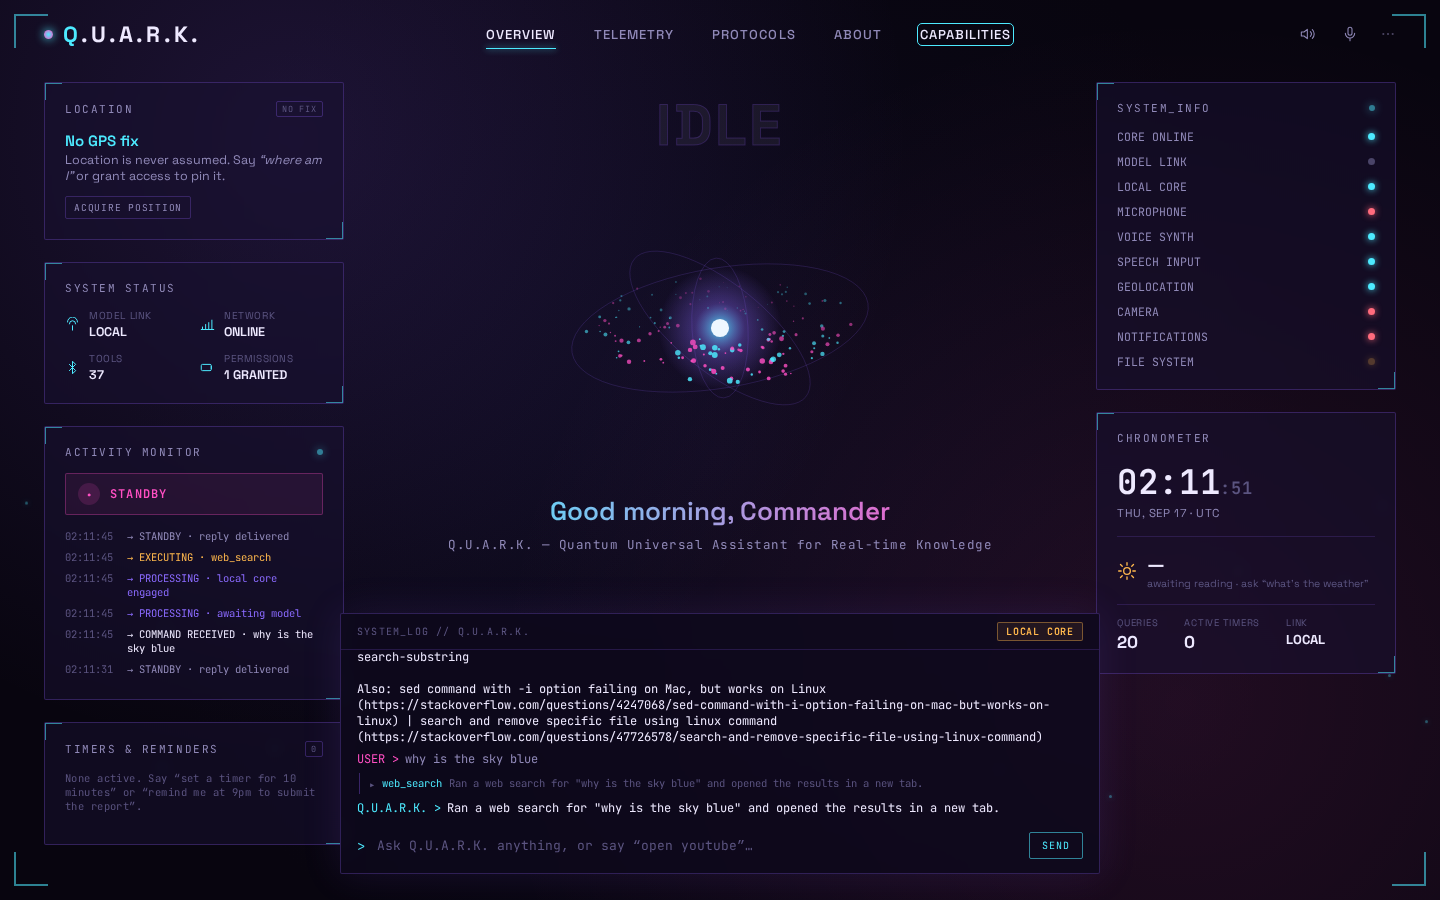
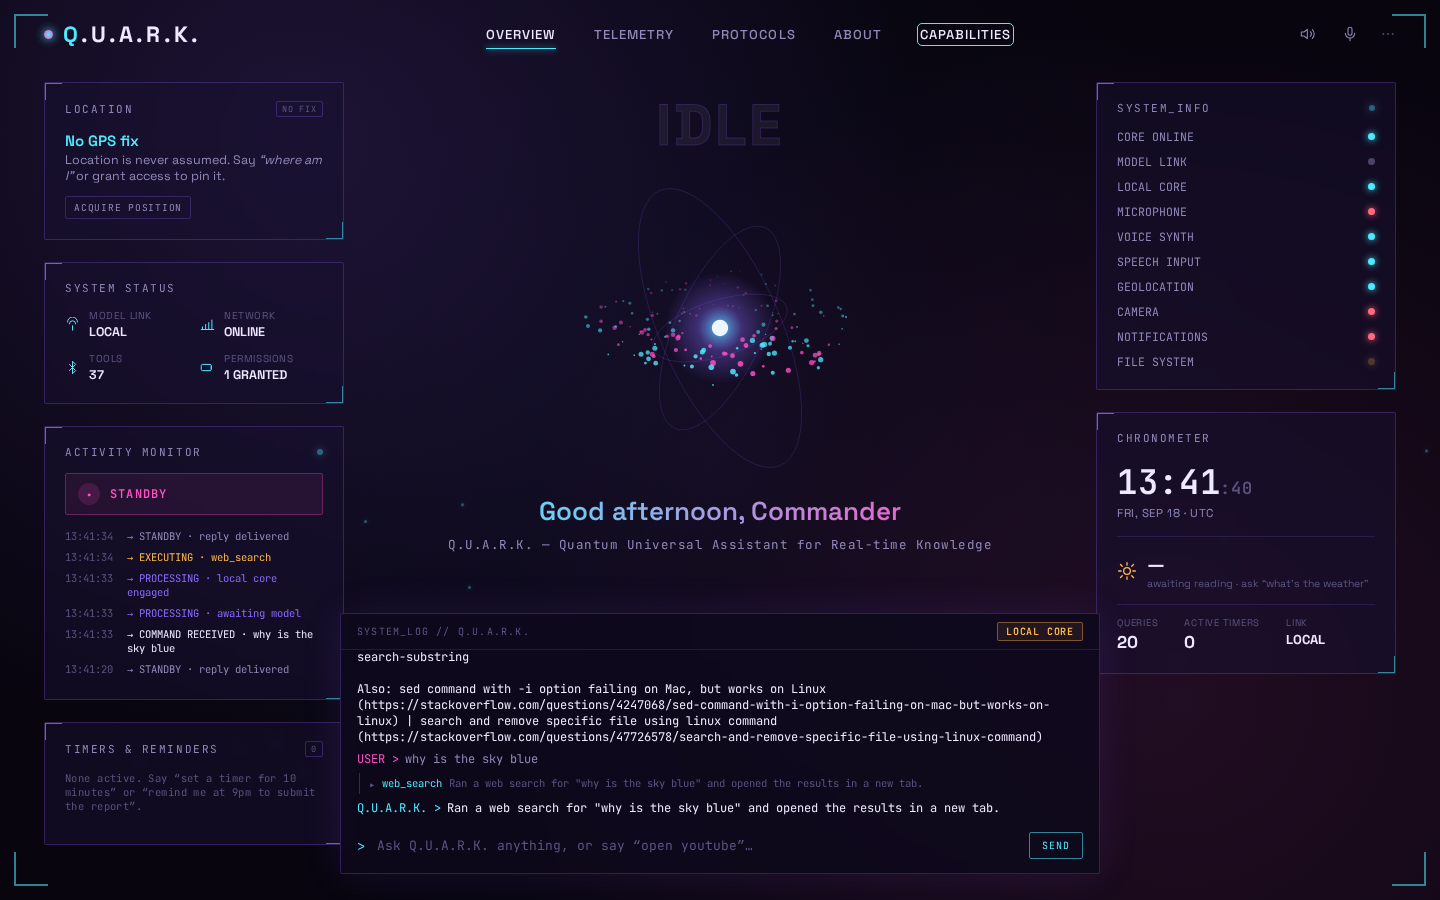
Add files via upload

diff --git a/quark/app/api/chat/route.js b/quark/app/api/chat/route.js
@@ -32,6 +32,7 @@ import {
   capOutputTokens,
   isModelNotFound,
   pickReplacementModel,
+  replacementCandidates,
   RETIRED_MODELS,
 } from '@/lib/llm-openai';
 
@@ -42,6 +43,12 @@ export const maxDuration = 60;
 
 const MAX_BODY_BYTES = 512 * 1024; // 512 KB of conversation is far more than enough
 const MAX_MESSAGES = 60;
+
+// `?probe=1` spends REAL provider quota (up to 5 tiny calls per run), on an
+// unauthenticated URL. Without a cap, one crawler or one impatient refresh loop
+// could eat a free tier's whole minute. Best-effort per warm instance, like the
+// rest of the limiter here.
+const PROBE_PER_MINUTE = 3;
 
 // ── best-effort in-memory rate limit ──────────────────────────────────────
 // NOTE: Vercel serverless functions are stateless and may run on many
@@ -166,7 +173,7 @@ async function listHostModels(cfg) {
  * SSE stream that speaks the SAME frame protocol as the Gemini path
  * (delta / functioncall / done / error), so the browser client is unchanged.
  */
-async function runOpenAI({ cfg, contents, wantStream, declarations = TOOL_DECLARATIONS, systemPrompt = SYSTEM_PROMPT, altTried = false, modelFallbackFrom = null, retry = null }) {
+async function runOpenAI({ cfg, contents, wantStream, declarations = TOOL_DECLARATIONS, systemPrompt = SYSTEM_PROMPT, modelFallbackFrom = null, retry = null, allowModelSwap = true }) {
   // `retry` carries a repaired request body from one of the self-healing
   // passes below (see "400 self-healing"). Everything else builds the body
   // from scratch.
@@ -225,7 +232,7 @@ async function runOpenAI({ cfg, contents, wantStream, declarations = TOOL_DECLAR
     const msg = String(json?.error?.message || '');
     const code = String(json?.error?.code || '');
     const again = (patch, note) => runOpenAI({
-      cfg, contents, wantStream, declarations, systemPrompt, altTried, modelFallbackFrom,
+      cfg, contents, wantStream, declarations, systemPrompt, modelFallbackFrom, allowModelSwap,
       retry: { ...(retry || {}), ...patch, note },
     });
 
@@ -247,14 +254,19 @@ async function runOpenAI({ cfg, contents, wantStream, declarations = TOOL_DECLAR
   // only symptom is a `model_not_found` that reads like a typo. Ask the host
   // what it really serves and retry once on the best tool-capable match, so a
   // shutdown degrades to "still answers" instead of "LOCAL CORE".
-  if (isModelNotFound(res.status, json) && !altTried) {
+  // `model_not_found` also covers "your key has no access to this model", so a
+  // single replacement is not enough — walk the candidate list (bounded at 3
+  // swaps so a broken catalogue cannot turn one turn into ten requests).
+  const triedModels = retry?.triedModels || [];
+  if (isModelNotFound(res.status, json) && allowModelSwap && triedModels.length < 3) {
     const offered = await listHostModels(cfg);
-    const alt = pickReplacementModel(offered || [], cfg.openai.model);
+    const alt = pickReplacementModel(offered || [], cfg.openai.model, triedModels);
     if (alt) {
       return runOpenAI({
         cfg: { ...cfg, openai: { ...cfg.openai, model: alt } },
-        contents, wantStream, declarations, systemPrompt, retry,
-        altTried: true, modelFallbackFrom: cfg.openai.model,
+        contents, wantStream, declarations, systemPrompt, allowModelSwap,
+        retry: { ...(retry || {}), triedModels: [...triedModels, cfg.openai.model] },
+        modelFallbackFrom: modelFallbackFrom || cfg.openai.model,
       });
     }
   }
@@ -453,8 +465,169 @@ function diagnostics(cfg) {
   };
 }
 
-export async function GET() {
+/**
+ * What the client shows when the primary provider failed but the fallback
+ * answered: enough to diagnose, short enough for a toast.
+ */
+function degradedBy(primaryError, cfg) {
+  // `message` is the human sentence ("Could not reach https://api.groq.com…");
+  // `hint` is sometimes just the raw cause ("fetch failed"), so prefer message.
+  const reason = primaryError?.message || primaryError?.hint || `HTTP ${primaryError?.status || 'unknown'}`;
+  return {
+    failedProvider: cfg.provider === 'openai' ? 'openai' : 'gemini',
+    failedModel: cfg.openai.model,
+    reason: String(reason).slice(0, 200),
+    code: primaryError?.code || null,
+    hint: 'GET /api/chat?probe=1 reports exactly what each provider said.',
+  };
+}
+
+/**
+ * Live provider probe — `GET /api/chat?probe=1`.
+ *
+ * Diagnostics prove the *configuration* is right; this proves what happens on
+ * the *wire*. It spends a few tiny requests to report what each provider
+ * actually said, which models the host serves, and whether the automatic
+ * replacement works — the difference between "Groq is configured" and "Groq
+ * answers". Safe to run in a browser; it never exposes the key.
+ */
+async function probeProviders(cfg) {
+  const out = { probe: true, at: new Date().toISOString(), providers: {}, verdict: [] };
+  const ping = [{ role: 'user', parts: [{ text: 'ping' }] }];
+
+  // ── OpenAI-compatible host (Groq / OpenRouter / Ollama / llama.cpp) ──────
+  if (cfg.openai.key) {
+    const tiny = { ...cfg, openai: { ...cfg.openai, maxTokens: 16 } };
+    const attempt = async (model) => {
+      const started = Date.now();
+      try {
+        const res = await runOpenAI({
+          cfg: { ...tiny, openai: { ...tiny.openai, model } },
+          contents: ping,
+          wantStream: false,
+          declarations: [],
+          systemPrompt: 'Reply with the single word: pong',
+          // Probe each model on its own — an automatic swap here would hide
+          // exactly the thing being diagnosed.
+          allowModelSwap: false,
+        });
+        const body = await res.clone().json().catch(() => null);
+        return {
+          requestedModel: model,
+          status: res.status,
+          ok: res.status < 400,
+          ms: Date.now() - started,
+          servedBy: body?.model || null,
+          text: (body?.text || '').slice(0, 40) || null,
+          recoveredWith: body?.recoveredWith || null,
+          error: body?.error || null,
+        };
+      } catch (e) {
+        return { requestedModel: model, ok: false, ms: Date.now() - started, error: { code: 'probe_exception', message: String(e?.message || e) } };
+      }
+    };
+
+    const first = await attempt(cfg.openai.model);
+    const ids = await listHostModels(cfg);
+    const candidates = replacementCandidates(ids || [], cfg.openai.model).slice(0, 3);
+    const o = {
+      base: cfg.openai.base,
+      configuredModel: cfg.openai.model,
+      outputTokenBudget: cfg.openai.maxTokens,
+      attempt: first,
+      hostModels: ids ? { count: ids.length, ids: ids.slice(0, 40) } : { error: 'GET /models failed, was empty, or the key cannot list models' },
+      candidates,
+    };
+    // If the configured model is dead, find one that this key CAN use — that is
+    // the exact question "what do I set OPENAI_MODEL to?" needs answering.
+    if (!first.ok && candidates.length) {
+      o.replacementAttempts = [];
+      for (const c of candidates) {
+        const res = await attempt(c);
+        o.replacementAttempts.push(res);
+        if (res.ok) { o.workingModel = c; break; }
+      }
+    }
+    out.providers.openai = o;
+
+    if (first.ok) {
+      out.verdict.push(`OPENAI-COMPATIBLE: works. "${first.servedBy || cfg.openai.model}" replied in ${first.ms}ms${first.recoveredWith ? ` (${first.recoveredWith})` : ''}.`);
+    } else if (o.workingModel) {
+      out.verdict.push(`OPENAI-COMPATIBLE: "${cfg.openai.model}" is unusable with this key, but "${o.workingModel}" works. Set OPENAI_MODEL=${o.workingModel} and redeploy.`);
+      out.verdict.push(`Reason the configured model failed: ${first.error?.code || first.status} — ${(first.error?.message || first.error?.hint || '').slice(0, 140)}`);
+    } else {
+      out.verdict.push(`OPENAI-COMPATIBLE: FAILED — ${first.error?.code || first.status}: ${(first.error?.message || first.error?.hint || 'unknown').slice(0, 160)}`);
+      (o.replacementAttempts || []).forEach((r2) => out.verdict.push(
+        `  also tried "${r2.requestedModel}": ${r2.error?.code || r2.status} — ${(r2.error?.message || r2.error?.hint || '').slice(0, 120)}`,
+      ));
+      if (!candidates.length) out.verdict.push('  the host offered no tool-capable replacement (is the key allowed to list models?).');
+    }
+  } else {
+    out.providers.openai = { skipped: 'OPENAI_API_KEY is empty' };
+    out.verdict.push('OPENAI-COMPATIBLE: not configured (OPENAI_API_KEY is empty).');
+  }
+
+  // ── Gemini ───────────────────────────────────────────────────────────────
+  if (cfg.key) {
+    const started = Date.now();
+    try {
+      const res = await fetch(`${cfg.base}/models/${cfg.model}:generateContent`, {
+        method: 'POST',
+        headers: { 'content-type': 'application/json', 'x-goog-api-key': cfg.key },
+        body: JSON.stringify({
+          contents: ping,
+          generationConfig: { maxOutputTokens: 16, thinkingConfig: { thinkingBudget: 0 } },
+        }),
+        signal: AbortSignal.timeout(20000),
+      });
+      const body = await res.json().catch(() => null);
+      const text = (body?.candidates?.[0]?.content?.parts || []).map((q) => q.text || '').join('').slice(0, 40);
+      out.providers.gemini = {
+        model: cfg.model, status: res.status, ok: res.ok, ms: Date.now() - started,
+        text: text || null, error: body?.error || null,
+      };
+      out.verdict.push(res.ok
+        ? `GEMINI: works. ${cfg.model} replied in ${out.providers.gemini.ms}ms.`
+        : `GEMINI: FAILED — HTTP ${res.status}: ${String(body?.error?.message || '').slice(0, 160)}`);
+    } catch (e) {
+      out.providers.gemini = { model: cfg.model, ok: false, error: { code: 'network', message: String(e?.message || e) } };
+      out.verdict.push(`GEMINI: FAILED — unreachable (${String(e?.message || e).slice(0, 120)}).`);
+    }
+  } else {
+    out.providers.gemini = { skipped: 'GEMINI_API_KEY is empty' };
+    out.verdict.push('GEMINI: not configured (GEMINI_API_KEY is empty).');
+  }
+
+  out.effectiveProvider = cfg.openai.key && (cfg.provider === 'openai' || !cfg.key) ? 'openai' : 'gemini';
+  out.fallbackProvider = cfg.fallbackProvider || null;
+  return out;
+}
+
+export async function GET(request) {
   const cfg = env();
+
+  // ── ?probe=1 → actually call the provider and report every step ─────────
+  // Diagnostics can prove the *config* is right and still leave you guessing
+  // about the wire. This spends one tiny request to answer: what did the host
+  // say, what models does it serve, and which one would we switch to?
+  if (request?.nextUrl?.searchParams?.get('probe') === '1') {
+    const limit = rateLimit(`probe:${clientIp(request)}`, PROBE_PER_MINUTE);
+    if (!limit.ok) {
+      return NextResponse.json(
+        {
+          probe: true,
+          ok: false,
+          error: {
+            code: 'rate_limited',
+            message: `The probe spends real provider quota, so it is limited to ${PROBE_PER_MINUTE} runs per minute. Wait a moment and run it again.`,
+          },
+        },
+        { status: 429 },
+      );
+    }
+    return NextResponse.json(await probeProviders(cfg));
+  }
+
   return NextResponse.json({
     service: 'quark-gemini-proxy',
     version: PROXY_VERSION,
@@ -707,6 +880,9 @@ export async function POST(req) {
       functionCalls,
       finishReason: cand?.finishReason || null,
       blocked,
+      // The fallback rescued this turn — say so, and say why the primary died.
+      // A working answer from the wrong provider is how a dead key stays hidden.
+      ...(primaryError ? { degraded: degradedBy(primaryError, cfg) } : {}),
       usage: json?.usageMetadata
         ? {
             promptTokens: json.usageMetadata.promptTokenCount ?? 0,
@@ -827,6 +1003,7 @@ export async function POST(req) {
             finishReason,
             blocked: finishReason === 'SAFETY' || finishReason === 'PROHIBITED_CONTENT',
             usage,
+            ...(primaryError ? { degraded: degradedBy(primaryError, cfg) } : {}),
           }),
         );
       } catch (e) {

diff --git a/quark/hooks/QuarkProvider.jsx b/quark/hooks/QuarkProvider.jsx
@@ -79,6 +79,9 @@ export function QuarkProvider({ children }) {
 
   // ── refs ──────────────────────────────────────────────────────────────
   const contentsRef = useRef([]);
+  // A broken primary that a fallback keeps rescuing is invisible unless we say
+  // something — but saying it on every turn would be noise, so: once per reason.
+  const degradedSeen = useRef(null);
   const abortRef = useRef(null);
   const busyRef = useRef(false);
   const transcriptRef = useRef(transcript);
@@ -489,7 +492,31 @@ export function QuarkProvider({ children }) {
             break;
           }
 
-          setConn({ state: 'live', detail: res.model || conn.model, model: res.model, tools: conn.tools });
+          // The turn succeeded, but on the FALLBACK: the configured provider is
+          // broken and would stay that way silently. Surface it once.
+          if (res.degraded && degradedSeen.current !== res.degraded.reason) {
+            degradedSeen.current = res.degraded.reason;
+            pushToast({
+              kind: 'warn',
+              title: `${res.degraded.failedProvider || 'primary'} failed — ${res.model || 'fallback'} answered`,
+              message: `${res.degraded.reason} · open /api/chat?probe=1 for the full report`,
+              ttl: 16000,
+            });
+            addEntry({
+              role: 'trace',
+              name: 'provider-fallback',
+              status: 'done',
+              detail: `${res.degraded.failedModel || 'primary'}: ${String(res.degraded.reason).slice(0, 90)}`,
+            });
+          }
+          setConn({
+            state: 'live',
+            detail: res.degraded
+              ? `${res.model || conn.model} · fallback (${res.degraded.failedProvider || 'primary'} down)`
+              : (res.model || conn.model),
+            model: res.model,
+            tools: conn.tools,
+          });
 
           // ── tool calls ───────────────────────────────────────────────
           if (res.functionCalls?.length) {

diff --git a/quark/lib/llm-openai.js b/quark/lib/llm-openai.js
@@ -248,21 +248,30 @@ export function isModelNotFound(status, json) {
 }
 
 /**
- * Choose a replacement from the ids a host actually serves (`GET /models`).
- * Prefers the known-good list, then falls back to any tool-capable-looking id
- * the host reports, so a future retirement still self-heals.
+ * Every plausible replacement, best first, from the ids a host actually serves
+ * (`GET /models`). Several can be needed because "model_not_found" also means
+ * *your key has no access* — a free account can be blocked from one id and
+ * allowed the next, so trying a single replacement is not enough.
  */
-export function pickReplacementModel(available, requested) {
+export function replacementCandidates(available, requested, exclude = []) {
   const ids = (Array.isArray(available) ? available : [])
     .map((m) => (typeof m === 'string' ? m : m?.id))
     .filter(Boolean);
-  if (!ids.length) return RETIRED_MODELS[requested]?.use || null;
-  for (const want of MODEL_PREFERENCE) {
-    if (ids.includes(want) && want !== requested) return want;
+  const blocked = new Set([requested, ...exclude]);
+  if (!ids.length) {
+    const fallback = RETIRED_MODELS[requested]?.use;
+    return fallback && !blocked.has(fallback) ? [fallback] : [];
   }
-  const generic = ids.find((id) => id !== requested && /gpt-oss|qwen|llama|kimi|minimax/i.test(id)
-    && !/guard|safeguard|compound|whisper|embed|tts|playai|allam|orpheus|distill/i.test(id));
-  return generic || null;
+  const toolCapable = (id) => /gpt-oss|qwen|llama|kimi|minimax/i.test(id)
+    && !/guard|safeguard|compound|whisper|embed|tts|playai|allam|orpheus|distill/i.test(id);
+  const preferred = MODEL_PREFERENCE.filter((id) => ids.includes(id) && !blocked.has(id));
+  const others = ids.filter((id) => !blocked.has(id) && toolCapable(id) && !preferred.includes(id));
+  return [...preferred, ...others];
+}
+
+/** Best single replacement, or null when the host offers nothing usable. */
+export function pickReplacementModel(available, requested, exclude = []) {
+  return replacementCandidates(available, requested, exclude)[0] || null;
 }
 
 export function classifyOpenAI(status, json, model) {

diff --git a/quark/DEPLOYMENT.md b/quark/DEPLOYMENT.md
@@ -340,6 +340,31 @@ healthy: the badge flips to **LOCAL CORE** and the local engine answers, so it
 *seems* like the provider was never configured. It usually means the provider
 **rejected the request at runtime**. Three steps:
 
+**0. Run the probe.** `GET https://<your-app>/api/chat?probe=1` spends a few tiny
+requests and reports what each provider *actually said* — configuration
+diagnostics can be perfect while the provider still refuses the request:
+
+```json
+{ "probe": true,
+  "providers": {
+    "openai": {
+      "base": "https://api.groq.com/openai/v1",
+      "configuredModel": "llama-3.3-70b-versatile",
+      "attempt": { "ok": true, "servedBy": "openai/gpt-oss-120b",
+                   "recoveredWith": "switched to openai/gpt-oss-120b", "ms": 640 },
+      "hostModels": { "count": 14, "ids": ["openai/gpt-oss-120b", "qwen/qwen3.6-27b", "…"] },
+      "replacement": "openai/gpt-oss-120b" },
+    "gemini": { "model": "gemini-2.5-flash", "ok": true, "ms": 410 } },
+  "verdict": ["OPENAI-COMPATIBLE: works. Served by "openai/gpt-oss-120b" in 640ms (switched to openai/gpt-oss-120b).",
+              "Set OPENAI_MODEL=openai/gpt-oss-120b to skip the automatic re-route and its extra round trip.",
+              "GEMINI: works. gemini-2.5-flash replied in 410ms."] }
+```
+
+`attempt.servedBy` is the model that really answered; `hostModels.ids` is the
+catalogue your key can use; `verdict` says what to change. The probe never
+returns the key, and because each run spends real quota on an unauthenticated
+URL it is capped at **3 runs/minute per IP** (429 after that).
+
 **1. Read the diagnostics endpoint.** `GET https://<your-app>/api/chat` reports
 what the server actually sees — no guesswork about Vercel's env UI:
 
@@ -367,6 +392,21 @@ fails and the fallback fails too, the response carries **both** reasons:
 `primaryError` is the one that matters — it is the provider you actually
 configured. The same text is pushed to the HUD as a toast, so you can see it
 during a demo without opening devtools.
+
+**A rescued turn is not silent either.** When the primary fails and the fallback
+*answers*, the response carries `degraded` and the HUD shows one warning toast
+(once per distinct reason, so it never nags):
+
+```json
+{ "ok": true, "model": "gemini-2.5-flash", "text": "…",
+  "degraded": { "failedProvider": "openai", "failedModel": "llama-3.3-70b-versatile",
+                "reason": "Model \"llama-3.3-70b-versatile\" was switched off by the provider on 2026-08-16…",
+                "code": "bad_model", "hint": "GET /api/chat?probe=1 reports exactly what each provider said." } }
+```
+
+This is the case that hides best: everything appears to work, answers arrive,
+and the provider you configured and paid attention to is quietly dead. The
+connection badge reads `gemini-2.5-flash · fallback (openai down)`.
 
 **3. Match the code to the fix.**
 

diff --git a/quark/README.md b/quark/README.md
@@ -399,7 +399,7 @@ multi-provider failover, and a mock Gemini that also simulates thinking-model
 output (`{"thought":true}` parts, `MAX_TOKENS`) and a blocked speech service —
 so the fallbacks are tested rather than assumed.
 
-**Current: 34 + 78 + 55 + 35 unit · 64/64 browser · 21/21 on-device STT · 34/34
+**Current: 34 + 78 + 55 + 40 unit · 64/64 browser · 21/21 on-device STT · 45/45
 providers · 26/27 live-model.** The one live skip is correct-by-design: the permission
 dialog is not shown when geolocation is already `granted`.
 
